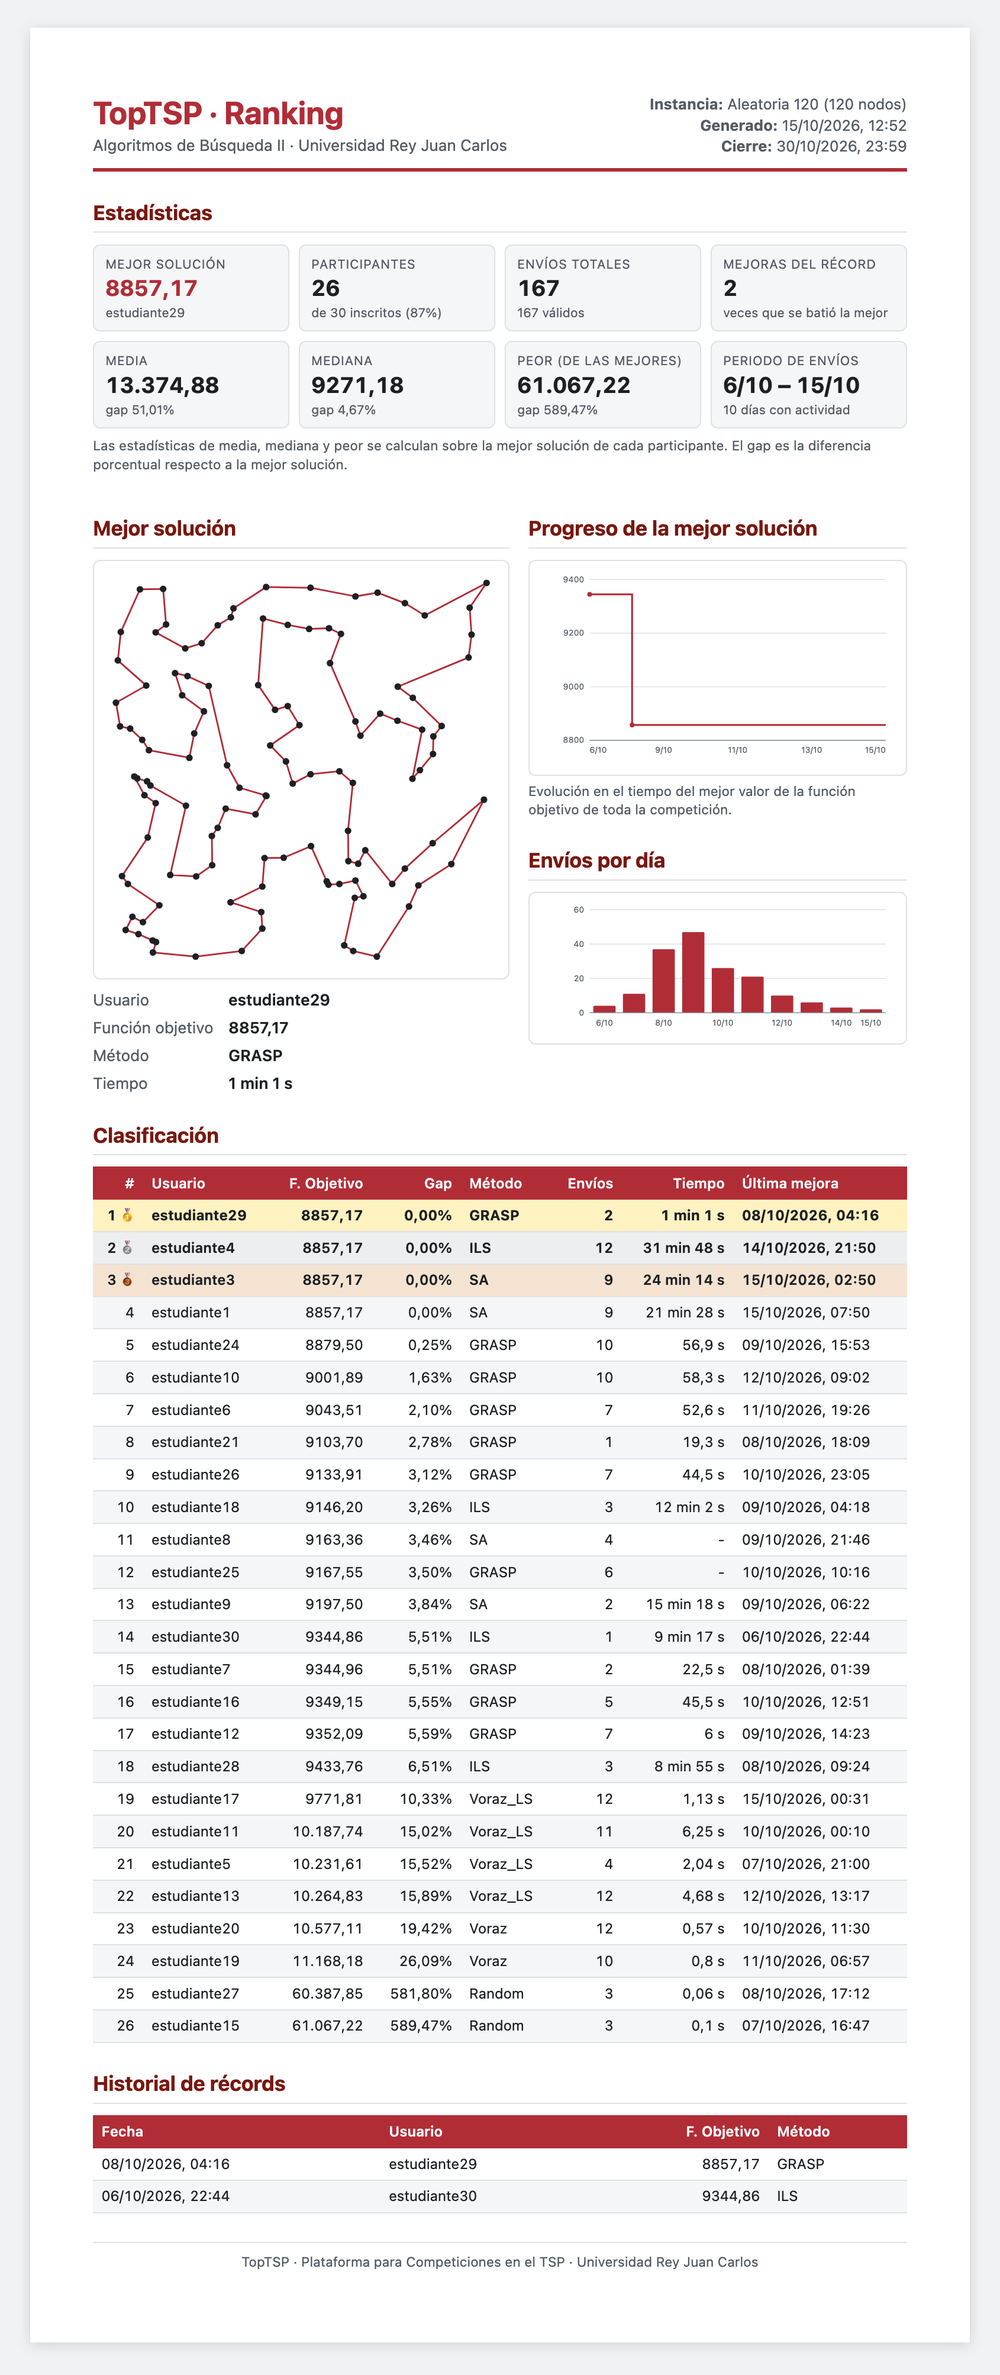
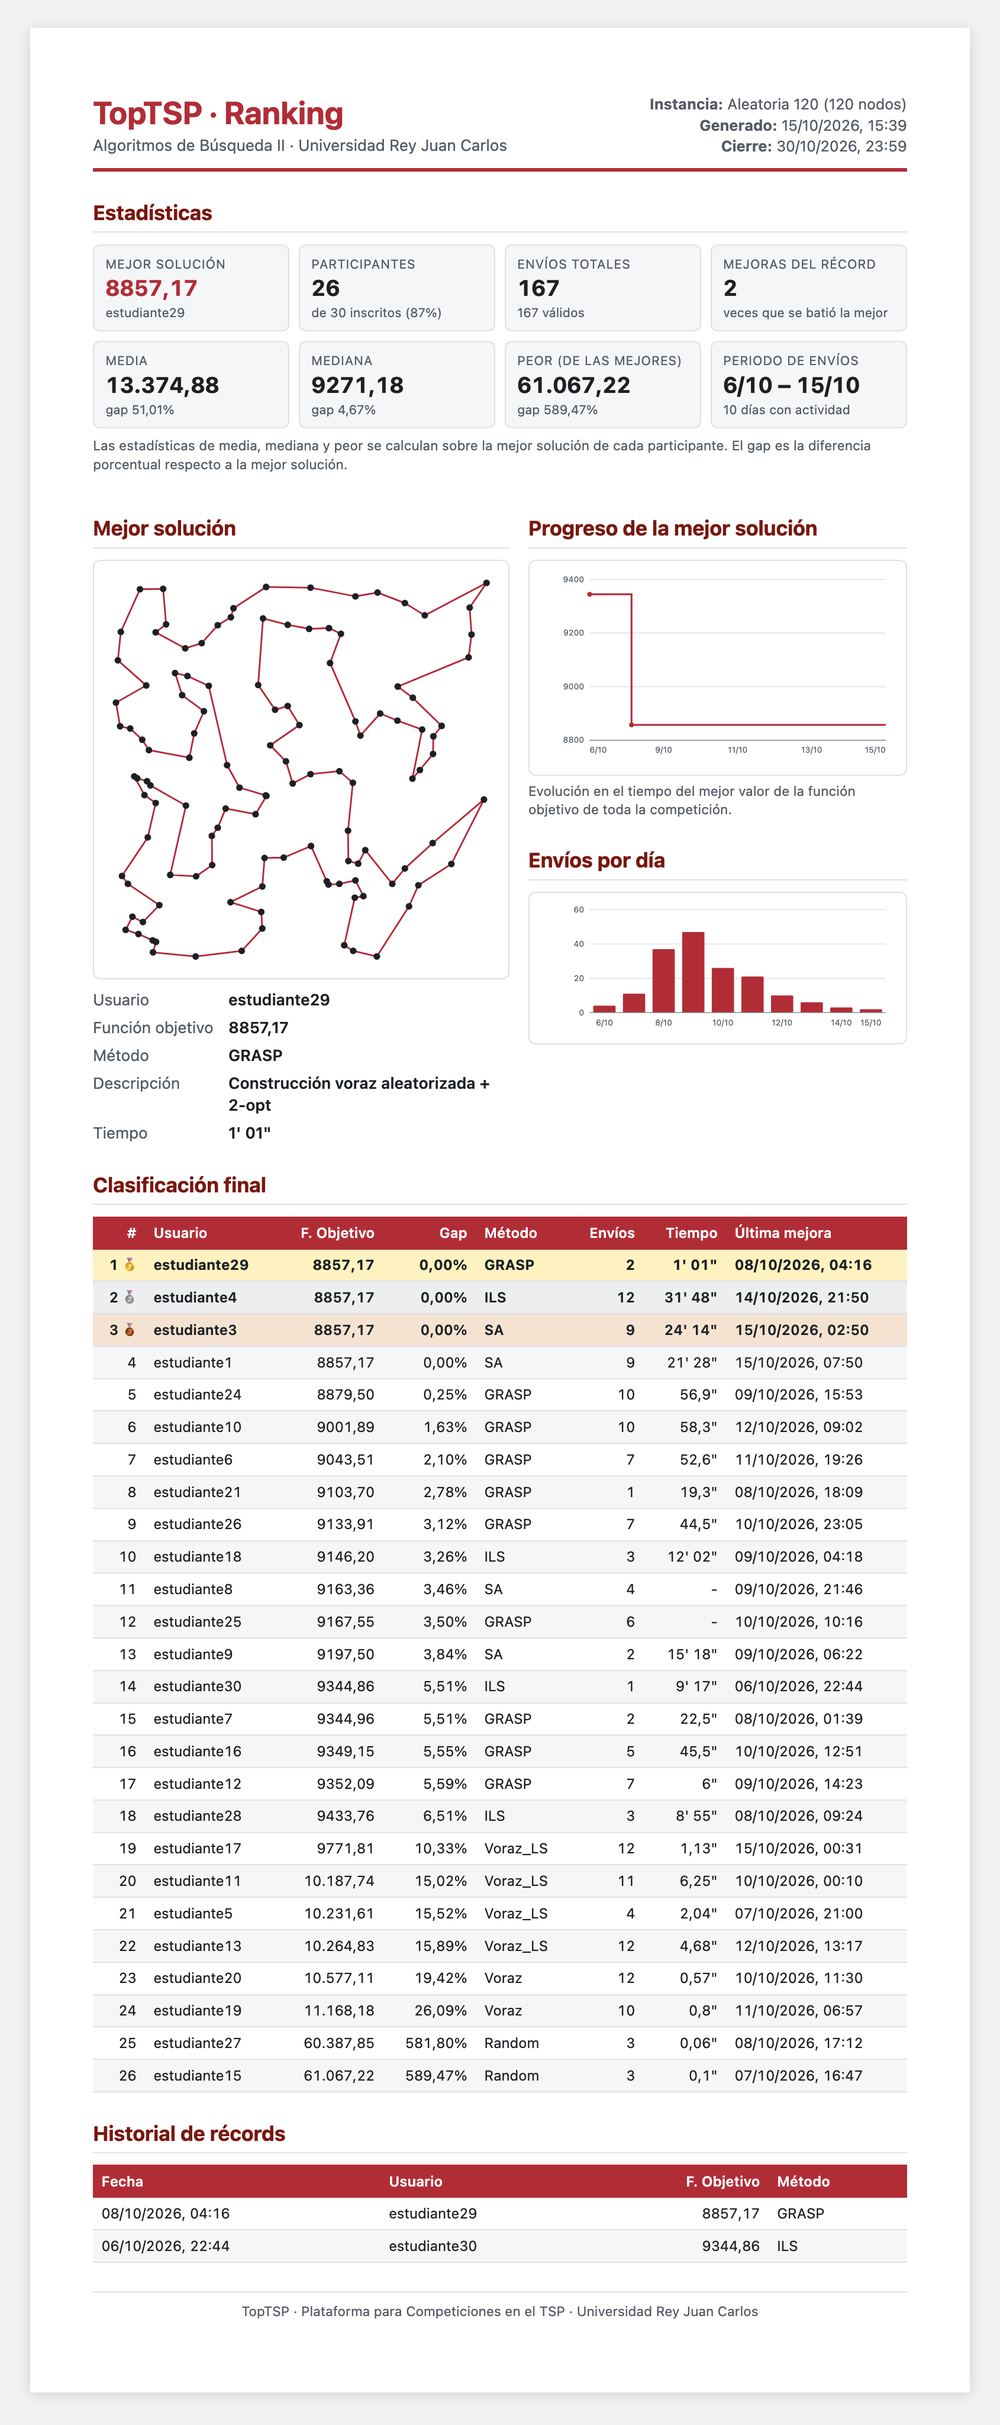
Add virtual classroom badges, method tooltip and compact time format
- TopTSP Oro, Plata, Bronce and Diamante badges (512x512 transparent PNGs
  with the URJC logo) shown on the home page with a coin-like spin
- Instant custom tooltip for method descriptions (hover, focus or tap)
- Compact solving time format (12.5", 3' 20", 1h 20' 34") that never wraps,
  and a narrower submissions column in the ranking
- Update README screenshots and docs, bump version to 2.1.0

diff --git a/public/app.js b/public/app.js
@@ -85,32 +85,71 @@ function formatObjectiveValue(value) {
     return Number(value).toFixed(2);
 }
 
-// Method acronym shown in tables; its optional description appears on hover
+// Method acronym shown in tables; its optional description appears in a tooltip
 function formatMethod(method, description) {
     const escape = text => String(text === null || text === undefined ? '' : text)
         .replace(/&/g, '&amp;').replace(/</g, '&lt;').replace(/>/g, '&gt;')
         .replace(/"/g, '&quot;').replace(/'/g, '&#39;');
-    if (!method) return description ? `<span class="method-acronym" title="${escape(description)}">-</span>` : '-';
-    return description
-        ? `<span class="method-acronym" title="${escape(description)}">${escape(method)}</span>`
-        : escape(method);
+    if (!description) return method ? escape(method) : '-';
+    return `<span class="method-acronym" tabindex="0" data-description="${escape(description)}">${escape(method || '-')}</span>`;
 }
 
-// Optional solving time (seconds) reported by the student: "12.5 s", "3 min 20 s", "1 h 05 min"
+// Tooltip for method descriptions (instant on hover/focus, toggled on tap)
+(function setupMethodTooltip() {
+    let tooltip = null;
+    let current = null;
+
+    function show(target) {
+        if (!tooltip) {
+            tooltip = document.createElement('div');
+            tooltip.className = 'method-tooltip';
+            tooltip.setAttribute('role', 'tooltip');
+            document.body.appendChild(tooltip);
+        }
+        current = target;
+        tooltip.textContent = target.dataset.description;
+        tooltip.classList.add('visible');
+        const rect = target.getBoundingClientRect();
+        const tip = tooltip.getBoundingClientRect();
+        let left = rect.left + rect.width / 2 - tip.width / 2;
+        left = Math.max(8, Math.min(left, window.innerWidth - tip.width - 8));
+        let top = rect.top - tip.height - 8;
+        if (top < 8) top = rect.bottom + 8;
+        tooltip.style.left = `${left}px`;
+        tooltip.style.top = `${top}px`;
+    }
+
+    function hide() {
+        current = null;
+        if (tooltip) tooltip.classList.remove('visible');
+    }
+
+    const find = event => event.target.closest && event.target.closest('.method-acronym[data-description]');
+
+    document.addEventListener('mouseover', event => { const t = find(event); if (t) show(t); });
+    document.addEventListener('mouseout', event => { if (find(event)) hide(); });
+    document.addEventListener('focusin', event => { const t = find(event); if (t) show(t); });
+    document.addEventListener('focusout', event => { if (find(event)) hide(); });
+    document.addEventListener('click', event => {
+        const t = find(event);
+        if (t && t !== current) show(t); else hide();
+    });
+    window.addEventListener('scroll', hide, true);
+})();
+
+// Optional solving time (seconds) reported by the student, compact: 12.5", 3' 20", 1h 05' 03"
 function formatTime(seconds) {
     if (seconds === null || seconds === undefined || seconds === '' || isNaN(Number(seconds))) return '-';
     const total = Number(seconds);
     if (total < 60) {
-        return `${Number(total.toFixed(total < 10 ? 2 : 1))} s`;
+        return `${Number(total.toFixed(total < 10 ? 2 : 1))}"`;
     }
-    if (total < 3600) {
-        const minutes = Math.floor(total / 60);
-        const secs = Math.round(total - minutes * 60);
-        return secs === 60 ? `${minutes + 1} min` : `${minutes} min ${secs} s`;
-    }
-    const hours = Math.floor(total / 3600);
-    const minutes = Math.round((total - hours * 3600) / 60);
-    return minutes === 60 ? `${hours + 1} h 00 min` : `${hours} h ${String(minutes).padStart(2, '0')} min`;
+    const rounded = Math.round(total);
+    const hours = Math.floor(rounded / 3600);
+    const minutes = Math.floor((rounded % 3600) / 60);
+    const secs = rounded % 60;
+    const pad = n => String(n).padStart(2, '0');
+    return hours > 0 ? `${hours}h ${pad(minutes)}' ${pad(secs)}"` : `${minutes}' ${pad(secs)}"`;
 }
 
 async function checkAuthStatus() {

diff --git a/public/index.html b/public/index.html
@@ -97,6 +97,29 @@
                 <li>En caso de empate, se prioriza la solución más antigua (primera en conseguir dicho valor)</li>
             </ul>
         </div>
+
+        <div class="card">
+            <h2>🏅 Insignias del Aula Virtual</h2>
+            <p>Al terminar todas las competiciones de la asignatura, los tres primeros del <a href="/ranking#general">Medallero de la Clasificación General</a> se llevarán en el aula virtual la insignia <strong>TopTSP Oro</strong>, <strong>TopTSP Plata</strong> o <strong>TopTSP Bronce</strong>. Además, quien lidere la <a href="/ranking#general">Clasificación por Mejores Soluciones</a> se llevará la insignia <strong>TopTSP Diamante</strong>.</p>
+            <div class="badges-grid">
+                <figure class="badge-figure">
+                    <div class="badge-coin"><img src="images/badges/topTSP-oro.png" alt="Insignia TopTSP Oro" class="badge-face" width="512" height="512"><img src="images/badges/topTSP-oro.png" alt="" aria-hidden="true" class="badge-face badge-back" width="512" height="512"></div>
+                    <figcaption><strong>TopTSP Oro</strong><span>1.º del Medallero</span></figcaption>
+                </figure>
+                <figure class="badge-figure">
+                    <div class="badge-coin"><img src="images/badges/topTSP-plata.png" alt="Insignia TopTSP Plata" class="badge-face" width="512" height="512"><img src="images/badges/topTSP-plata.png" alt="" aria-hidden="true" class="badge-face badge-back" width="512" height="512"></div>
+                    <figcaption><strong>TopTSP Plata</strong><span>2.º del Medallero</span></figcaption>
+                </figure>
+                <figure class="badge-figure">
+                    <div class="badge-coin"><img src="images/badges/topTSP-bronce.png" alt="Insignia TopTSP Bronce" class="badge-face" width="512" height="512"><img src="images/badges/topTSP-bronce.png" alt="" aria-hidden="true" class="badge-face badge-back" width="512" height="512"></div>
+                    <figcaption><strong>TopTSP Bronce</strong><span>3.º del Medallero</span></figcaption>
+                </figure>
+                <figure class="badge-figure">
+                    <div class="badge-coin"><img src="images/badges/topTSP-diamante.png" alt="Insignia TopTSP Diamante" class="badge-face" width="512" height="512"><img src="images/badges/topTSP-diamante.png" alt="" aria-hidden="true" class="badge-face badge-back" width="512" height="512"></div>
+                    <figcaption><strong>TopTSP Diamante</strong><span>1.º en Mejores Soluciones</span></figcaption>
+                </figure>
+            </div>
+        </div>
     </main>
 
     <footer class="footer">

diff --git a/public/styles.css b/public/styles.css
@@ -1545,10 +1545,112 @@ strong {
 .method-acronym {
     border-bottom: 1px dotted currentColor;
     cursor: help;
+    outline: none;
+}
+
+.method-tooltip {
+    position: fixed;
+    z-index: 10000;
+    max-width: 280px;
+    padding: 0.5rem 0.75rem;
+    border-radius: 6px;
+    background: #1A1A1A;
+    color: #FFFFFF;
+    font-size: 0.85rem;
+    font-weight: 400;
+    line-height: 1.35;
+    box-shadow: 0 4px 14px rgba(0, 0, 0, 0.25);
+    pointer-events: none;
+    opacity: 0;
+    transition: opacity 0.12s ease;
+}
+
+.method-tooltip.visible {
+    opacity: 1;
 }
 
 .method-description {
     font-size: 0.85rem;
     color: #6c757d;
     margin-top: 0.25rem;
+}
+
+/* Virtual classroom badges on the home page (coin-like spin) */
+.badges-grid {
+    display: grid;
+    grid-template-columns: repeat(auto-fit, minmax(160px, 1fr));
+    gap: 1.5rem;
+    margin-top: 1.5rem;
+}
+
+.badge-figure {
+    margin: 0;
+    text-align: center;
+    perspective: 800px;
+}
+
+.badge-coin {
+    position: relative;
+    width: 170px;
+    max-width: 100%;
+    aspect-ratio: 1;
+    margin: 0 auto;
+    transform-style: preserve-3d;
+    animation: badge-spin 6s ease-in-out infinite;
+}
+
+/* Two faces so the badge never reads mirrored while it turns */
+.badge-face {
+    position: absolute;
+    inset: 0;
+    width: 100%;
+    height: 100%;
+    backface-visibility: hidden;
+    -webkit-backface-visibility: hidden;
+    filter: drop-shadow(0 6px 10px rgba(0, 0, 0, 0.18));
+}
+
+.badge-back {
+    transform: rotateY(180deg);
+}
+
+.badge-figure:nth-child(2) .badge-coin { animation-delay: 0.4s; }
+.badge-figure:nth-child(3) .badge-coin { animation-delay: 0.8s; }
+.badge-figure:nth-child(4) .badge-coin { animation-delay: 1.2s; }
+
+.badge-figure:hover .badge-coin {
+    animation-play-state: paused;
+}
+
+.badge-figure figcaption {
+    margin-top: 0.75rem;
+    display: flex;
+    flex-direction: column;
+    gap: 0.15rem;
+}
+
+.badge-figure figcaption span {
+    font-size: 0.85rem;
+    color: #6c757d;
+}
+
+/* Turn once, then rest facing front */
+@keyframes badge-spin {
+    0%, 60% { transform: rotateY(0deg); }
+    100% { transform: rotateY(360deg); }
+}
+
+@media (prefers-reduced-motion: reduce) {
+    .badge-coin { animation: none; }
+}
+
+/* Keep solving times on one line and the submissions count column narrow */
+.table .time-col {
+    white-space: nowrap;
+}
+
+.table .compact-col {
+    width: 1%;
+    white-space: nowrap;
+    text-align: center;
 }

diff --git a/public/ranking.js b/public/ranking.js
@@ -269,8 +269,8 @@ function populateRankingTable(ranking) {
             <td><strong>${formatObjectiveValue(entry.best_objective_value)}</strong></td>
             <td>${formatMethod(entry.best_method, entry.best_method_description)}</td>
             <td>${formatDate(entry.last_improvement)}</td>
-            <td>${entry.total_submissions || 0}</td>
-            <td>${formatTime(entry.best_time_seconds)}</td>
+            <td class="compact-col">${entry.total_submissions || 0}</td>
+            <td class="time-col">${formatTime(entry.best_time_seconds)}</td>
             <td>
                 <button onclick="visualizeUserSolution(${entry.user_id})" class="btn btn-secondary btn-sm" title="Visualizar solución">
                     👁
@@ -325,7 +325,7 @@ async function loadRecentSubmissions() {
                 <td>${sanitizeHtml(sub.user || '-')}</td>
                 <td><strong>${formatObjectiveValue(sub.objective_value)}</strong></td>
                 <td>${formatMethod(sub.method, sub.method_description)}</td>
-                <td>${formatTime(sub.time_seconds)}</td>
+                <td class="time-col">${formatTime(sub.time_seconds)}</td>
                 <td>${isNaN(date.getTime()) ? '-' : formatDate(date)}</td>
             `;
             tbody.appendChild(row);

diff --git a/public/ranking-report.js b/public/ranking-report.js
@@ -69,13 +69,12 @@ function fmtNum(value, decimals = 2) {
 function fmtTime(seconds) {
     if (seconds === null || seconds === undefined || isNaN(Number(seconds))) return '-';
     const total = Number(seconds);
-    if (total < 60) return `${Number(total.toFixed(total < 10 ? 2 : 1)).toLocaleString('es-ES')} s`;
-    if (total < 3600) {
-        const minutes = Math.floor(total / 60);
-        return `${minutes} min ${Math.round(total - minutes * 60)} s`;
-    }
-    const hours = Math.floor(total / 3600);
-    return `${hours} h ${String(Math.round((total - hours * 3600) / 60)).padStart(2, '0')} min`;
+    if (total < 60) return `${Number(total.toFixed(total < 10 ? 2 : 1)).toLocaleString('es-ES')}"`;
+    const rounded = Math.round(total);
+    const hours = Math.floor(rounded / 3600);
+    const minutes = Math.floor((rounded % 3600) / 60);
+    const pad = n => String(n).padStart(2, '0');
+    return hours > 0 ? `${hours}h ${pad(minutes)}' ${pad(rounded % 60)}"` : `${minutes}' ${pad(rounded % 60)}"`;
 }
 
 function median(sorted) {

diff --git a/public/ranking.html b/public/ranking.html
@@ -86,8 +86,8 @@
                             <th>Mejor Valor</th>
                             <th>Método</th>
                             <th>Fecha/Hora</th>
-                            <th>Total Envíos</th>
-                            <th>Tiempo</th>
+                            <th class="compact-col">Envíos</th>
+                            <th class="time-col">Tiempo</th>
                             <th>Ver</th>
                         </tr>
                     </thead>
@@ -139,7 +139,7 @@
                                 <th>Usuario</th>
                                 <th>Valor F.O.</th>
                                 <th>Método</th>
-                                <th>Tiempo</th>
+                                <th class="time-col">Tiempo</th>
                                 <th>Fecha/Hora</th>
                             </tr>
                         </thead>

diff --git a/public/user.js b/public/user.js
@@ -210,7 +210,7 @@ async function loadSolutionHistory() {
                         <td>${solution.solution}</td>
                         <td><strong>${formatObjectiveValue(solution.objective_value)}</strong></td>
                         <td>${formatMethod(solution.method, solution.method_description)}</td>
-                        <td>${formatTime(solution.time_seconds)}</td>
+                        <td class="time-col">${formatTime(solution.time_seconds)}</td>
                         <td>
                             <span class="status-indicator ${solution.is_valid ? 'status-online' : 'status-offline'}"></span>
                             ${solution.is_valid ? 'Válida' : 'Inválida'}

diff --git a/public/visualize.js b/public/visualize.js
@@ -291,7 +291,7 @@ function renderSubmissionsTable() {
             <td><strong>#${number}</strong></td>
             <td><strong>${formatObjectiveValue(sub.objective_value)}</strong></td>
             <td></td>
-            <td>${formatTime(sub.time_seconds)}</td>
+            <td class="time-col">${formatTime(sub.time_seconds)}</td>
             <td>${date && !isNaN(date.getTime()) ? formatDate(date) : '-'}</td>
             <td></td>
         `;

diff --git a/public/visualize.html b/public/visualize.html
@@ -110,7 +110,7 @@
                                     <th>Envío</th>
                                     <th>Valor F.O.</th>
                                     <th>Método</th>
-                                    <th>Tiempo</th>
+                                    <th class="time-col">Tiempo</th>
                                     <th>Fecha/Hora</th>
                                     <th>Ver</th>
                                 </tr>

diff --git a/public/user.html b/public/user.html
@@ -139,7 +139,7 @@
                             <th>Solución</th>
                             <th>Valor Objetivo</th>
                             <th>Método</th>
-                            <th>Tiempo</th>
+                            <th class="time-col">Tiempo</th>
                             <th>Estado</th>
                             <th>Fecha/Hora</th>
                         </tr>

diff --git a/README.md b/README.md
@@ -20,6 +20,7 @@ TopTSP es una aplicación web desarrollada para la Universidad Rey Juan Carlos q
     * [Ranking Público](#ranking-público)
     * [Clasificación General](#clasificación-general)
     * [Visualización TSP](#visualización-tsp)
+    * [Insignias del Aula Virtual](#insignias-del-aula-virtual)
 7.  [API Endpoints](#api-endpoints)
 8.  [Validaciones Implementadas](#validaciones-implementadas)
 9.  [Seguridad](#seguridad)
@@ -41,6 +42,7 @@ TopTSP es una aplicación web desarrollada para la Universidad Rey Juan Carlos q
 - **Clasificación General** entre competiciones: medallero y clasificación por mejores soluciones
 - **Informe imprimible (PDF)** del ranking con estadísticas, progreso y mejor solución, listo para publicar en Moodle
 - **Pausa de la competición** para bloquear temporalmente los envíos
+- **Insignias del aula virtual** (TopTSP Oro, Plata, Bronce y Diamante) presentadas en la portada
 - **Visualización interactiva** de instancias TSP con gráficos D3.js
 - **Descarga de instancias** en formato TSPLIB
 - **Exportación CSV** de todas las soluciones y del ranking
@@ -116,6 +118,7 @@ topabii/
 │   ├── ranking.js         # Lógica del ranking público y la Clasificación General
 │   ├── ranking-report.html # Informe imprimible del ranking (PDF, solo admin)
 │   ├── ranking-report.js  # Generación del informe con gráficos SVG
+│   ├── images/badges/     # Insignias TopTSP (PNG 512×512, fondo transparente)
 │   └── visualize.js       # Visualización interactiva con D3.js
 └── README.md              # Esta documentación
 ```
@@ -196,7 +199,7 @@ topabii/
    - Cálculo automático del valor objetivo
    - Solo se guarda la mejor solución de cada usuario
    - **Método (opcional)**: acrónimo de hasta 10 caracteres (p. ej. `GA`), que es lo que se muestra en las tablas, y una **descripción** opcional de hasta 200 caracteres que aparece al pasar el ratón sobre el acrónimo y al visualizar la solución
-   - **Tiempo (opcional)**: segundos que ha tardado el algoritmo en obtener la solución. Es solo informativo, no afecta al ranking
+   - **Tiempo (opcional)**: segundos que ha tardado el algoritmo en obtener la solución. Es solo informativo, no afecta al ranking. Se muestra en formato compacto: `12.5"`, `3' 20"`, `1h 20' 34"`
 
 2. **Ver Estadísticas Personales**
    - Mejor valor objetivo
@@ -259,6 +262,17 @@ Al visualizar la solución de un usuario desde el ranking (`/visualize?userId=..
 
 <img width="900" alt="Visualización de la mejor solución de un usuario con su historial de envíos" src="docs/images/visualizar.png" />
 
+
+### Insignias del Aula Virtual
+
+La portada muestra, con una animación de giro, las insignias que se entregan en el aula virtual al terminar todas las competiciones de la asignatura:
+
+- **TopTSP Oro, Plata y Bronce**: para los tres primeros del Medallero de la Clasificación General
+- **TopTSP Diamante**: para quien lidere la Clasificación por Mejores Soluciones
+
+Las imágenes están en `public/images/badges/` (`topTSP-oro.png`, `topTSP-plata.png`, `topTSP-bronce.png`, `topTSP-diamante.png`): PNG cuadrados de 512×512 con fondo transparente, listos para subirlos como insignias de Moodle.
+
+<img width="900" alt="Insignias TopTSP del aula virtual" src="docs/images/insignias.png" />
 
 ## API Endpoints
 
